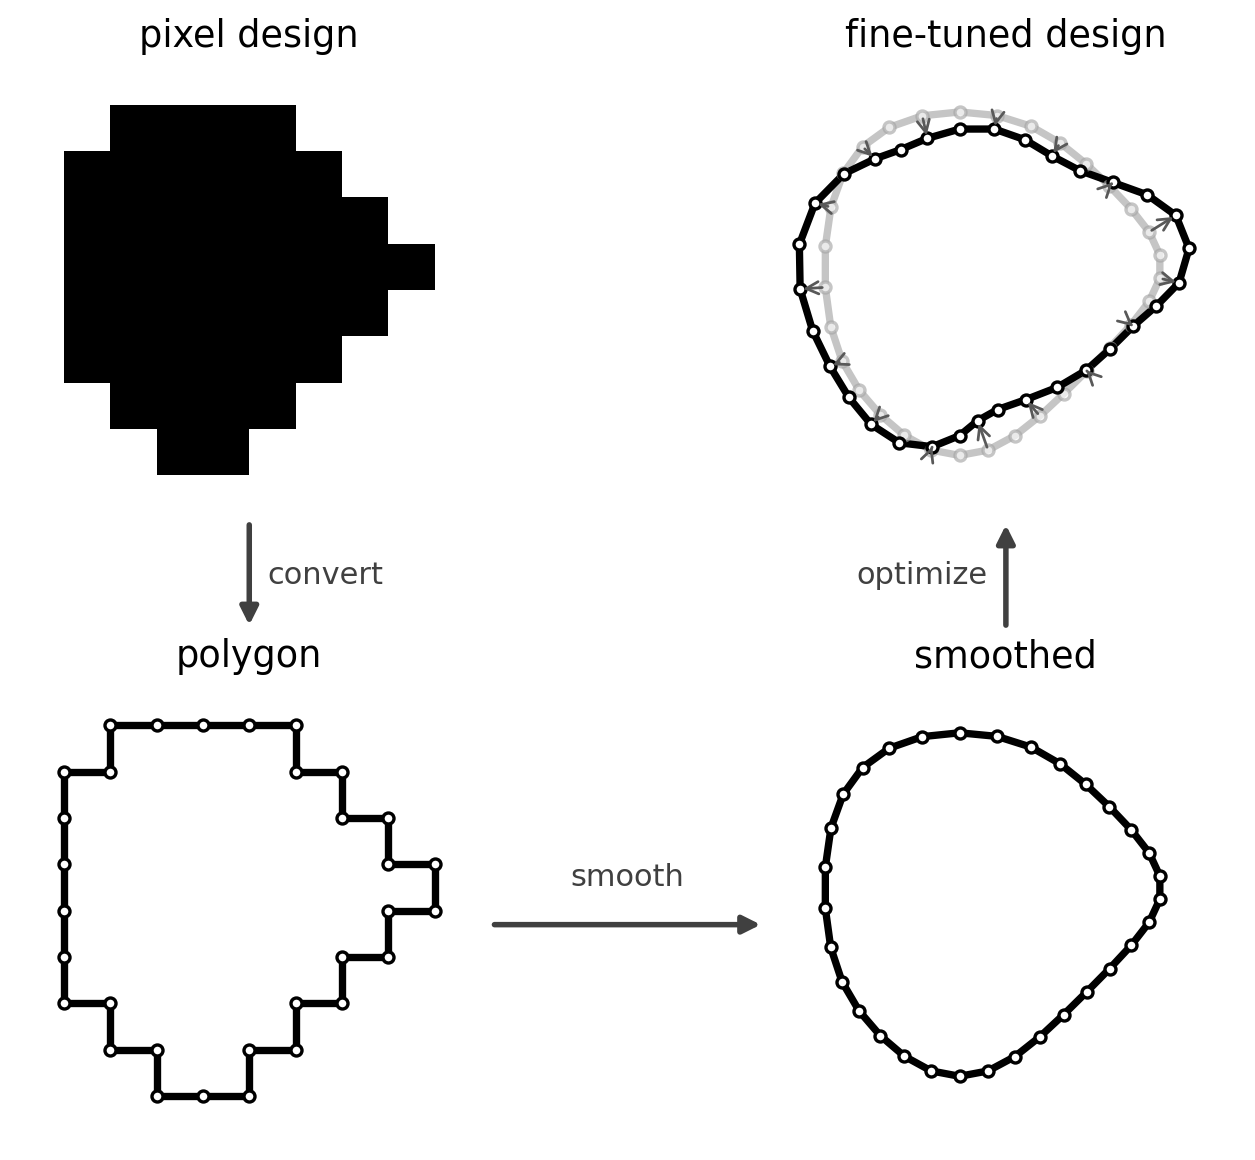
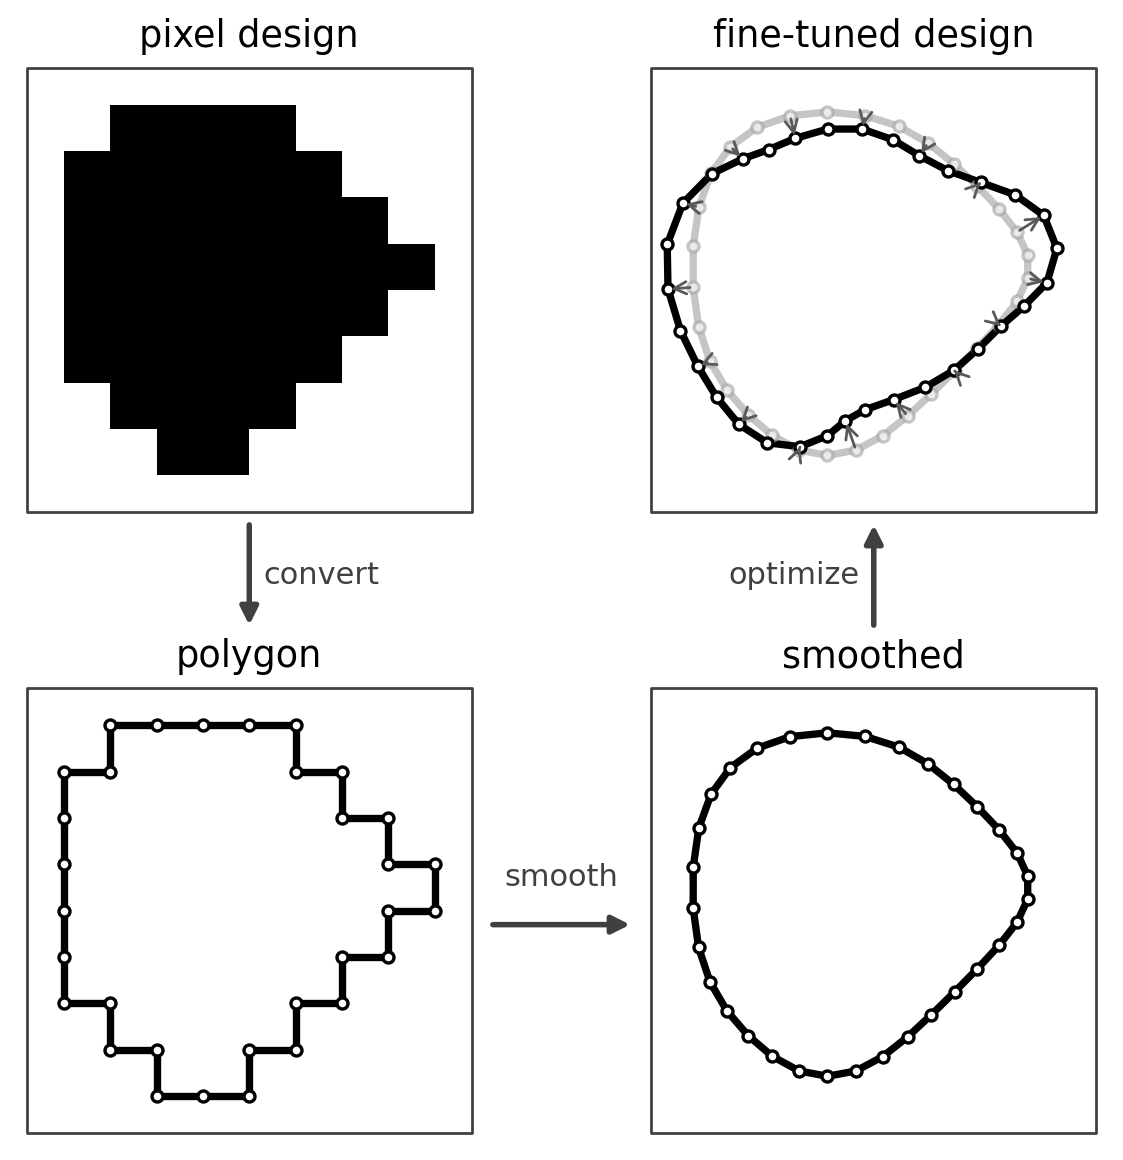
refine contour notebook thumbnail

diff --git a/scripts/generate_autograd32_thumbnail.py b/scripts/generate_autograd32_thumbnail.py
@@ -108,6 +108,19 @@ def style_panel(ax: plt.Axes, title: str) -> None:
     ax.set_xlim(0.0, 10.0)
     ax.set_ylim(0.0, 10.0)
     ax.axis("off")
+    ax.add_patch(
+        Rectangle(
+            (0.02, 0.02),
+            0.96,
+            0.96,
+            transform=ax.transAxes,
+            fill=False,
+            edgecolor="0.25",
+            linewidth=0.9,
+            joinstyle="round",
+            zorder=0,
+        )
+    )
     ax.text(0.5, 1.01, title, transform=ax.transAxes, ha="center", va="bottom", fontsize=12)
 
 
@@ -177,8 +190,9 @@ def build_figure(output_path: Path) -> None:
     smoothed = laplacian_smooth(polygon, weight=0.22, steps=14)
     fine_tuned = perturb_polygon(smoothed, scale=3.0)
 
-    fig = plt.figure(figsize=(8.4, 6.4), facecolor="white")
-    gs = fig.add_gridspec(2, 2, wspace=0.12, hspace=0.34)
+    fig = plt.figure(figsize=(6.6, 6.4), facecolor="white")
+    # Match the physical frame-to-frame gap horizontally to the vertical gap.
+    gs = fig.add_gridspec(2, 2, wspace=0.247, hspace=0.34)
 
     ax_pixel = fig.add_subplot(gs[0, 0])
     ax_fine = fig.add_subplot(gs[0, 1])
